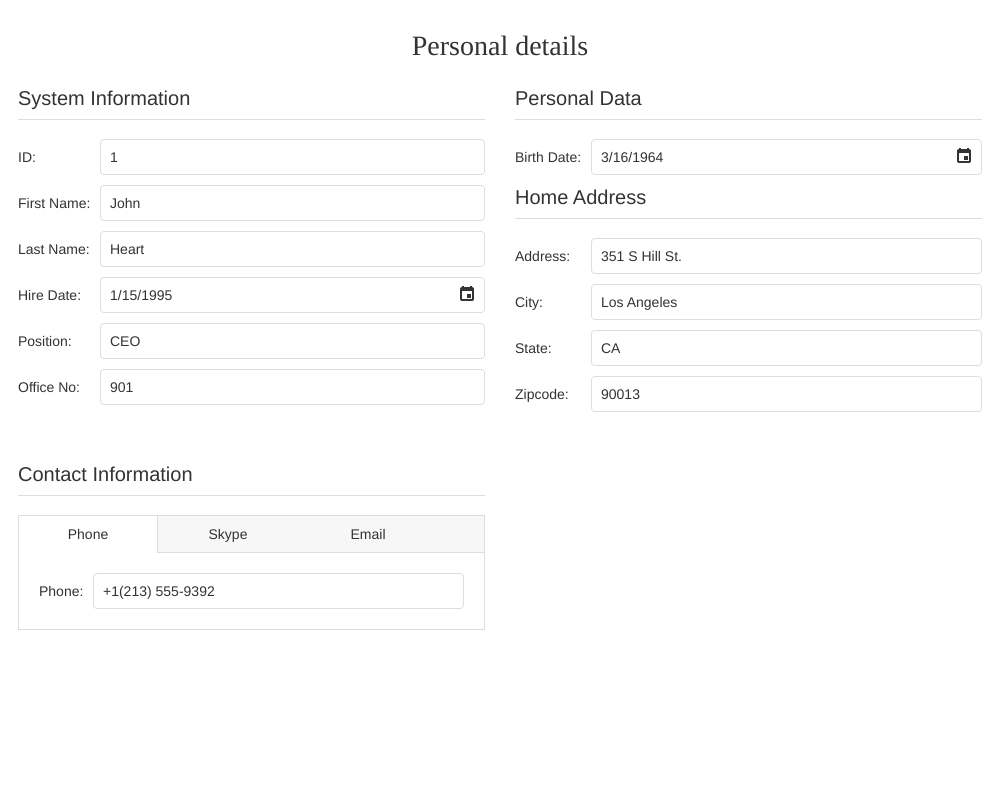
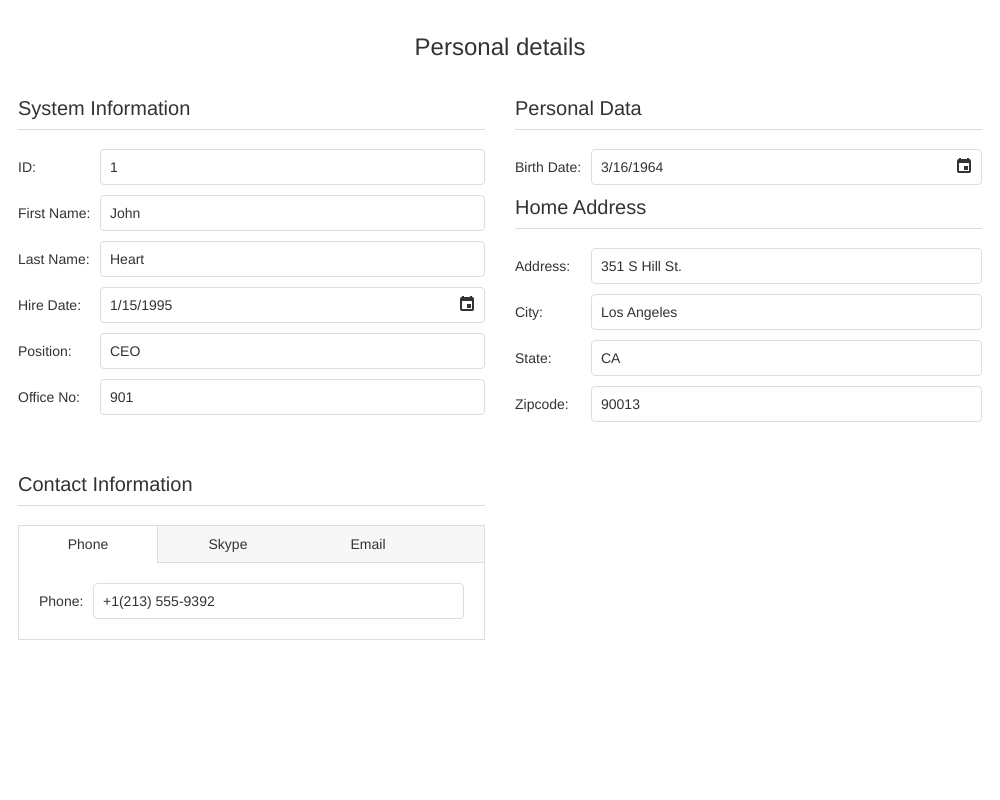
Form GroupedFields: update header styles (#2958)

diff --git a/JSDemos/Demos/Form/GroupedFields/Vue/App.vue b/JSDemos/Demos/Form/GroupedFields/Vue/App.vue
@@ -116,16 +116,8 @@ export default {
 }
 
 .long-title h3 {
-  font-family:
-    'Segoe UI Light',
-    'Helvetica Neue Light',
-    'Segoe UI',
-    'Helvetica Neue',
-    'Trebuchet MS',
-    Verdana;
-  font-weight: 200;
-  font-size: 28px;
+  font-size: 24px;
   text-align: center;
-  margin-bottom: 20px;
+  line-height: 2em;
 }
 </style>

diff --git a/MVCDemos/Content/DemosStyles/Form/GroupedFields.css b/MVCDemos/Content/DemosStyles/Form/GroupedFields.css
@@ -3,9 +3,7 @@
 }
 
 .long-title h3 {
-    font-family: 'Segoe UI Light', 'Helvetica Neue Light', 'Segoe UI', 'Helvetica Neue', 'Trebuchet MS', Verdana;
-    font-weight: 200;
-    font-size: 28px;
+    font-size: 24px;
     text-align: center;
-    margin-bottom: 20px;
+    line-height: 2em;
 }

diff --git a/NetCoreDemos/wwwroot/css/DemosStyles/Form/GroupedFields.css b/NetCoreDemos/wwwroot/css/DemosStyles/Form/GroupedFields.css
@@ -3,9 +3,7 @@
 }
 
 .long-title h3 {
-    font-family: 'Segoe UI Light', 'Helvetica Neue Light', 'Segoe UI', 'Helvetica Neue', 'Trebuchet MS', Verdana;
-    font-weight: 200;
-    font-size: 28px;
+    font-size: 24px;
     text-align: center;
-    margin-bottom: 20px;
+    line-height: 2em;
 }

diff --git a/JSDemos/Demos/Form/GroupedFields/Angular/app/app.component.css b/JSDemos/Demos/Form/GroupedFields/Angular/app/app.component.css
@@ -3,9 +3,7 @@
 }
 
 ::ng-deep .long-title h3 {
-  font-family: 'Segoe UI Light', 'Helvetica Neue Light', 'Segoe UI', 'Helvetica Neue', 'Trebuchet MS', Verdana;
-  font-weight: 200;
-  font-size: 28px;
+  font-size: 24px;
   text-align: center;
-  margin-bottom: 20px;
+  line-height: 2em;
 }

diff --git a/JSDemos/Demos/Form/GroupedFields/React/styles.css b/JSDemos/Demos/Form/GroupedFields/React/styles.css
@@ -3,9 +3,7 @@
 }
 
 .long-title h3 {
-  font-family: 'Segoe UI Light', 'Helvetica Neue Light', 'Segoe UI', 'Helvetica Neue', 'Trebuchet MS', Verdana;
-  font-weight: 200;
-  font-size: 28px;
+  font-size: 24px;
   text-align: center;
-  margin-bottom: 20px;
+  line-height: 2em;
 }

diff --git a/JSDemos/Demos/Form/GroupedFields/jQuery/styles.css b/JSDemos/Demos/Form/GroupedFields/jQuery/styles.css
@@ -3,9 +3,7 @@
 }
 
 .long-title h3 {
-  font-family: 'Segoe UI Light', 'Helvetica Neue Light', 'Segoe UI', 'Helvetica Neue', 'Trebuchet MS', Verdana;
-  font-weight: 200;
-  font-size: 28px;
+  font-size: 24px;
   text-align: center;
-  margin-bottom: 20px;
+  line-height: 2em;
 }
